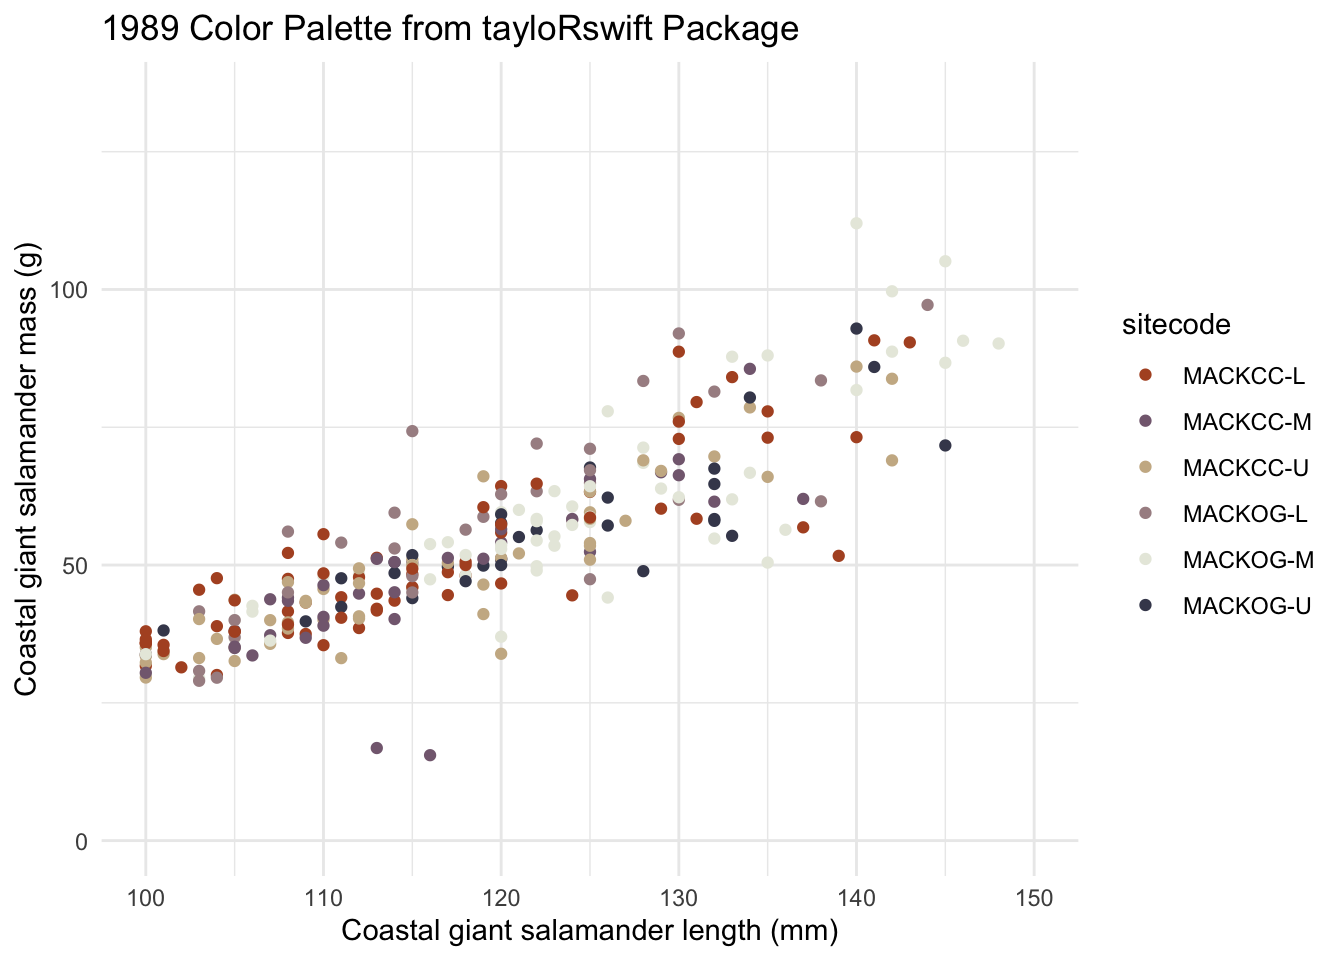
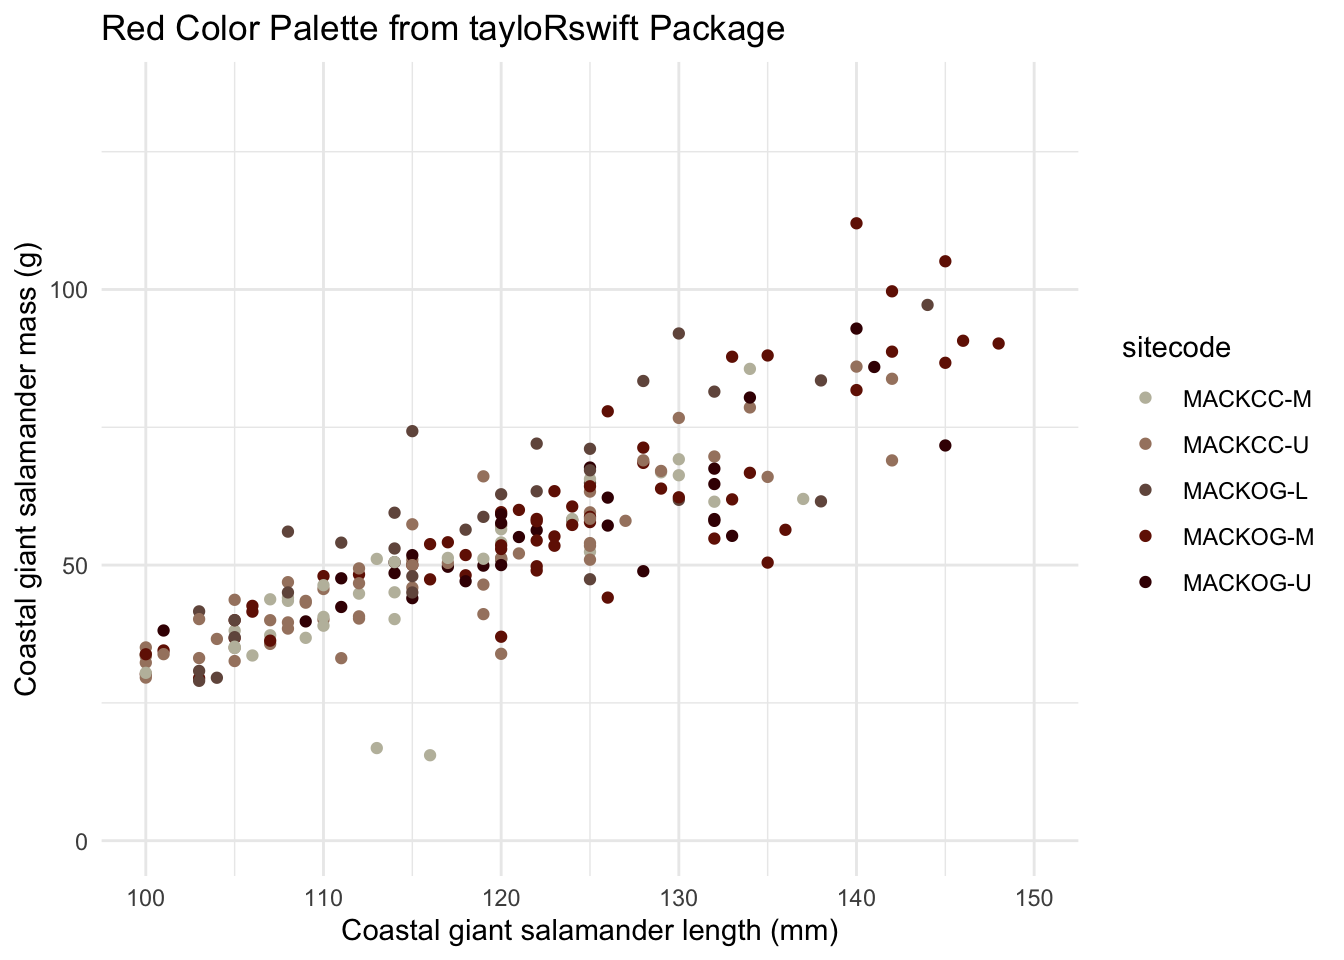
updating color blog

diff --git a/docs/blog/fun-with-coloRs/index.html b/docs/blog/fun-with-coloRs/index.html
@@ -189,6 +189,7 @@ pre > code.sourceCode > span > a:first-child::before { text-decoration: underlin
   <ul class="collapse">
   <li><a href="#taylor-swift-album-covers" id="toc-taylor-swift-album-covers" class="nav-link" data-scroll-target="#taylor-swift-album-covers">Taylor Swift Album Covers</a></li>
   <li><a href="#la-croix-colors" id="toc-la-croix-colors" class="nav-link" data-scroll-target="#la-croix-colors">La Croix Colors</a></li>
+  <li><a href="#national-parks-colors" id="toc-national-parks-colors" class="nav-link" data-scroll-target="#national-parks-colors">National Parks Colors</a></li>
   </ul></li>
   <li><a href="#resources" id="toc-resources" class="nav-link" data-scroll-target="#resources">Resources</a></li>
   </ul>
@@ -273,27 +274,28 @@ pre > code.sourceCode > span > a:first-child::before { text-decoration: underlin
 <span id="cb1-13"><a href="#cb1-13" aria-hidden="true" tabindex="-1"></a></span>
 <span id="cb1-14"><a href="#cb1-14" aria-hidden="true" tabindex="-1"></a>base_plot_scatter <span class="ot">&lt;-</span> and_vertebrates <span class="sc">%&gt;%</span></span>
 <span id="cb1-15"><a href="#cb1-15" aria-hidden="true" tabindex="-1"></a>  <span class="fu">filter</span>(species <span class="sc">==</span> <span class="st">"Coastal giant salamander"</span>) <span class="sc">%&gt;%</span> </span>
-<span id="cb1-16"><a href="#cb1-16" aria-hidden="true" tabindex="-1"></a>  <span class="fu">ggplot</span>(<span class="fu">aes</span>(<span class="at">x =</span> length_1_mm, <span class="at">y =</span> weight_g, <span class="at">color =</span> sitecode)) <span class="sc">+</span> <span class="co"># color by the variable station</span></span>
-<span id="cb1-17"><a href="#cb1-17" aria-hidden="true" tabindex="-1"></a>  <span class="fu">geom_point</span>() <span class="sc">+</span> <span class="co"># make a boxplot</span></span>
-<span id="cb1-18"><a href="#cb1-18" aria-hidden="true" tabindex="-1"></a>  <span class="fu">labs</span>(<span class="at">x =</span> <span class="st">"Coastal giant salamander length (mm)"</span>, <span class="at">y=</span> <span class="st">"Coastal giant salamander mass (g)"</span>) <span class="sc">+</span></span>
-<span id="cb1-19"><a href="#cb1-19" aria-hidden="true" tabindex="-1"></a>  <span class="fu">xlim</span>(<span class="dv">100</span>,<span class="dv">150</span>) <span class="sc">+</span></span>
-<span id="cb1-20"><a href="#cb1-20" aria-hidden="true" tabindex="-1"></a>  <span class="fu">guides</span>(<span class="at">fill =</span> <span class="cn">FALSE</span>) <span class="sc">+</span> <span class="co"># remove legend</span></span>
-<span id="cb1-21"><a href="#cb1-21" aria-hidden="true" tabindex="-1"></a>  <span class="fu">theme_minimal</span>() </span>
-<span id="cb1-22"><a href="#cb1-22" aria-hidden="true" tabindex="-1"></a></span>
-<span id="cb1-23"><a href="#cb1-23" aria-hidden="true" tabindex="-1"></a><span class="co"># base plot</span></span>
-<span id="cb1-24"><a href="#cb1-24" aria-hidden="true" tabindex="-1"></a>base_plot_twoboxes <span class="ot">&lt;-</span> and_vertebrates <span class="sc">%&gt;%</span></span>
-<span id="cb1-25"><a href="#cb1-25" aria-hidden="true" tabindex="-1"></a>  <span class="fu">filter</span>(species <span class="sc">==</span> <span class="st">"Coastal giant salamander"</span> <span class="sc">|</span> species <span class="sc">==</span> <span class="st">"Cascade torrent salamander"</span>) <span class="sc">%&gt;%</span> </span>
-<span id="cb1-26"><a href="#cb1-26" aria-hidden="true" tabindex="-1"></a>  <span class="fu">ggplot</span>(<span class="fu">aes</span>(<span class="at">x =</span> species, <span class="at">y =</span> <span class="fu">log</span>(weight_g), <span class="at">fill =</span> species)) <span class="sc">+</span> <span class="co"># fill the boxes by the variable station</span></span>
-<span id="cb1-27"><a href="#cb1-27" aria-hidden="true" tabindex="-1"></a>  <span class="fu">geom_boxplot</span>() <span class="sc">+</span> <span class="co"># make a boxplot</span></span>
-<span id="cb1-28"><a href="#cb1-28" aria-hidden="true" tabindex="-1"></a>  <span class="fu">labs</span>(<span class="at">y =</span> <span class="st">"Mass (log-g)"</span>, <span class="at">x=</span> <span class="st">"Species"</span>) <span class="sc">+</span></span>
-<span id="cb1-29"><a href="#cb1-29" aria-hidden="true" tabindex="-1"></a>  <span class="fu">guides</span>(<span class="at">fill =</span> <span class="cn">FALSE</span>) <span class="sc">+</span> <span class="co"># remove legend</span></span>
-<span id="cb1-30"><a href="#cb1-30" aria-hidden="true" tabindex="-1"></a>  <span class="fu">theme_minimal</span>() </span></code><button title="Copy to Clipboard" class="code-copy-button"><i class="bi"></i></button></pre></div>
+<span id="cb1-16"><a href="#cb1-16" aria-hidden="true" tabindex="-1"></a>  <span class="fu">filter</span>(sitecode <span class="sc">!=</span> <span class="st">"MACKCC-L"</span>) <span class="sc">%&gt;%</span> </span>
+<span id="cb1-17"><a href="#cb1-17" aria-hidden="true" tabindex="-1"></a>  <span class="fu">ggplot</span>(<span class="fu">aes</span>(<span class="at">x =</span> length_1_mm, <span class="at">y =</span> weight_g, <span class="at">color =</span> sitecode)) <span class="sc">+</span> <span class="co"># color by the variable station</span></span>
+<span id="cb1-18"><a href="#cb1-18" aria-hidden="true" tabindex="-1"></a>  <span class="fu">geom_point</span>() <span class="sc">+</span> <span class="co"># make a boxplot</span></span>
+<span id="cb1-19"><a href="#cb1-19" aria-hidden="true" tabindex="-1"></a>  <span class="fu">labs</span>(<span class="at">x =</span> <span class="st">"Coastal giant salamander length (mm)"</span>, <span class="at">y=</span> <span class="st">"Coastal giant salamander mass (g)"</span>) <span class="sc">+</span></span>
+<span id="cb1-20"><a href="#cb1-20" aria-hidden="true" tabindex="-1"></a>  <span class="fu">xlim</span>(<span class="dv">100</span>,<span class="dv">150</span>) <span class="sc">+</span></span>
+<span id="cb1-21"><a href="#cb1-21" aria-hidden="true" tabindex="-1"></a>  <span class="fu">guides</span>(<span class="at">fill =</span> <span class="cn">FALSE</span>) <span class="sc">+</span> <span class="co"># remove legend</span></span>
+<span id="cb1-22"><a href="#cb1-22" aria-hidden="true" tabindex="-1"></a>  <span class="fu">theme_minimal</span>() </span>
+<span id="cb1-23"><a href="#cb1-23" aria-hidden="true" tabindex="-1"></a></span>
+<span id="cb1-24"><a href="#cb1-24" aria-hidden="true" tabindex="-1"></a><span class="co"># base plot</span></span>
+<span id="cb1-25"><a href="#cb1-25" aria-hidden="true" tabindex="-1"></a>base_plot_twoboxes <span class="ot">&lt;-</span> and_vertebrates <span class="sc">%&gt;%</span></span>
+<span id="cb1-26"><a href="#cb1-26" aria-hidden="true" tabindex="-1"></a>  <span class="fu">filter</span>(species <span class="sc">==</span> <span class="st">"Coastal giant salamander"</span> <span class="sc">|</span> species <span class="sc">==</span> <span class="st">"Cascade torrent salamander"</span>) <span class="sc">%&gt;%</span> </span>
+<span id="cb1-27"><a href="#cb1-27" aria-hidden="true" tabindex="-1"></a>  <span class="fu">ggplot</span>(<span class="fu">aes</span>(<span class="at">x =</span> species, <span class="at">y =</span> <span class="fu">log</span>(weight_g), <span class="at">fill =</span> species)) <span class="sc">+</span> <span class="co"># fill the boxes by the variable station</span></span>
+<span id="cb1-28"><a href="#cb1-28" aria-hidden="true" tabindex="-1"></a>  <span class="fu">geom_boxplot</span>() <span class="sc">+</span> <span class="co"># make a boxplot</span></span>
+<span id="cb1-29"><a href="#cb1-29" aria-hidden="true" tabindex="-1"></a>  <span class="fu">labs</span>(<span class="at">y =</span> <span class="st">"Mass (log-g)"</span>, <span class="at">x=</span> <span class="st">"Species"</span>) <span class="sc">+</span></span>
+<span id="cb1-30"><a href="#cb1-30" aria-hidden="true" tabindex="-1"></a>  <span class="fu">guides</span>(<span class="at">fill =</span> <span class="cn">FALSE</span>) <span class="sc">+</span> <span class="co"># remove legend</span></span>
+<span id="cb1-31"><a href="#cb1-31" aria-hidden="true" tabindex="-1"></a>  <span class="fu">theme_minimal</span>() </span></code><button title="Copy to Clipboard" class="code-copy-button"><i class="bi"></i></button></pre></div>
 </details>
 </div>
 <section id="taylor-swift-album-covers" class="level2">
 <h2 class="anchored" data-anchor-id="taylor-swift-album-covers">Taylor Swift Album Covers</h2>
 <p>First, let’s use the direct color palette package, you can learn more at the package’s github: <i class="fa-brands fa-github" aria-label="github"></i> <a href="https://github.com/asteves/tayloRswift">asteves tayloRswift github repository</a></p>
-<p>Important note: there are 2 functions: one for <strong>fill</strong>: <code>scale_fill_taylor</code> and one for <strong>color</strong>: <code>scale_color_taylor</code></p>
+<p>Important note: there are 2 functions: one for <strong>fill</strong>: <code>scale_fill_taylor</code> and one for <strong>color</strong>: <code>scale_color_taylor</code>.</p>
 <div class="cell">
 <details>
 <summary>Code</summary>
@@ -314,8 +316,8 @@ pre > code.sourceCode > span > a:first-child::before { text-decoration: underlin
 <details>
 <summary>Code</summary>
 <div class="sourceCode cell-code" id="cb3"><pre class="sourceCode r code-with-copy"><code class="sourceCode r"><span id="cb3-1"><a href="#cb3-1" aria-hidden="true" tabindex="-1"></a>base_plot_scatter <span class="sc">+</span></span>
-<span id="cb3-2"><a href="#cb3-2" aria-hidden="true" tabindex="-1"></a>  <span class="fu">scale_color_manual</span>(<span class="at">values =</span> <span class="fu">paletteer_d</span>(<span class="st">"tayloRswift::taylor1989"</span>)) <span class="sc">+</span></span>
-<span id="cb3-3"><a href="#cb3-3" aria-hidden="true" tabindex="-1"></a>  <span class="fu">ggtitle</span>(<span class="st">"1989 Color Palette from tayloRswift Package"</span>)</span></code><button title="Copy to Clipboard" class="code-copy-button"><i class="bi"></i></button></pre></div>
+<span id="cb3-2"><a href="#cb3-2" aria-hidden="true" tabindex="-1"></a>  <span class="fu">scale_color_manual</span>(<span class="at">values =</span> <span class="fu">paletteer_d</span>(<span class="st">"tayloRswift::taylorRed"</span>)) <span class="sc">+</span></span>
+<span id="cb3-3"><a href="#cb3-3" aria-hidden="true" tabindex="-1"></a>  <span class="fu">ggtitle</span>(<span class="st">"Red Color Palette from tayloRswift Package"</span>)</span></code><button title="Copy to Clipboard" class="code-copy-button"><i class="bi"></i></button></pre></div>
 </details>
 <div class="cell-output-display">
 <p><img src="index_files/figure-html/unnamed-chunk-3-1.png" class="img-fluid" width="672"></p>
@@ -395,6 +397,56 @@ pre > code.sourceCode > span > a:first-child::before { text-decoration: underlin
 </details>
 <div class="cell-output-display">
 <p><img src="index_files/figure-html/unnamed-chunk-5-2.png" class="img-fluid" width="672"></p>
+</div>
+</div>
+</section>
+<section id="national-parks-colors" class="level2">
+<h2 class="anchored" data-anchor-id="national-parks-colors">National Parks Colors</h2>
+<p>These color palettes come from National Parks posters. You can learn more at the package’s github: <i class="fa-brands fa-github" aria-label="github"></i> <a href="https://github.com/katiejolly/nationalparkcolors">katiejolly’s Nationalparkcolors github repository</a></p>
+<p>National Park posters and images</p>
+<div class="cell">
+<details>
+<summary>Code</summary>
+<div class="sourceCode cell-code" id="cb13"><pre class="sourceCode r code-with-copy"><code class="sourceCode r"><span id="cb13-1"><a href="#cb13-1" aria-hidden="true" tabindex="-1"></a><span class="co"># Let's start with the original package</span></span>
+<span id="cb13-2"><a href="#cb13-2" aria-hidden="true" tabindex="-1"></a><span class="co">#devtools::install_github("katiejolly/nationalparkcolors") #uncomment to install</span></span>
+<span id="cb13-3"><a href="#cb13-3" aria-hidden="true" tabindex="-1"></a><span class="fu">library</span>(nationalparkcolors)</span>
+<span id="cb13-4"><a href="#cb13-4" aria-hidden="true" tabindex="-1"></a></span>
+<span id="cb13-5"><a href="#cb13-5" aria-hidden="true" tabindex="-1"></a><span class="co"># see the palette</span></span>
+<span id="cb13-6"><a href="#cb13-6" aria-hidden="true" tabindex="-1"></a><span class="co"># park_palette("Saguaro")</span></span>
+<span id="cb13-7"><a href="#cb13-7" aria-hidden="true" tabindex="-1"></a></span>
+<span id="cb13-8"><a href="#cb13-8" aria-hidden="true" tabindex="-1"></a><span class="co"># build the palette</span></span>
+<span id="cb13-9"><a href="#cb13-9" aria-hidden="true" tabindex="-1"></a>pal <span class="ot">&lt;-</span> <span class="fu">park_palette</span>(<span class="st">"Saguaro"</span>)</span>
+<span id="cb13-10"><a href="#cb13-10" aria-hidden="true" tabindex="-1"></a></span>
+<span id="cb13-11"><a href="#cb13-11" aria-hidden="true" tabindex="-1"></a>base_plot <span class="sc">+</span></span>
+<span id="cb13-12"><a href="#cb13-12" aria-hidden="true" tabindex="-1"></a>  <span class="fu">scale_fill_manual</span>(<span class="at">values =</span> pal) <span class="sc">+</span></span>
+<span id="cb13-13"><a href="#cb13-13" aria-hidden="true" tabindex="-1"></a>  <span class="fu">ggtitle</span>(<span class="st">"National Parks Saguaro Palette from nationalparks Package"</span>)</span></code><button title="Copy to Clipboard" class="code-copy-button"><i class="bi"></i></button></pre></div>
+</details>
+<div class="cell-output-display">
+<p><img src="index_files/figure-html/unnamed-chunk-6-1.png" class="img-fluid" width="672"></p>
+</div>
+<details>
+<summary>Code</summary>
+<div class="sourceCode cell-code" id="cb14"><pre class="sourceCode r code-with-copy"><code class="sourceCode r"><span id="cb14-1"><a href="#cb14-1" aria-hidden="true" tabindex="-1"></a><span class="co"># Now let's do Everglades with paleteer with a scatterplot</span></span>
+<span id="cb14-2"><a href="#cb14-2" aria-hidden="true" tabindex="-1"></a></span>
+<span id="cb14-3"><a href="#cb14-3" aria-hidden="true" tabindex="-1"></a><span class="co"># see the hex codes</span></span>
+<span id="cb14-4"><a href="#cb14-4" aria-hidden="true" tabindex="-1"></a>paletteer<span class="sc">::</span><span class="fu">paletteer_d</span>(<span class="st">"nationalparkcolors::Everglades"</span>) </span></code><button title="Copy to Clipboard" class="code-copy-button"><i class="bi"></i></button></pre></div>
+</details>
+<div class="cell-output cell-output-stdout">
+<pre><code>&lt;colors&gt;
+#91D5DEFF #2E8289FF #B4674EFF #EAAE37FF #565F41FF </code></pre>
+</div>
+<details>
+<summary>Code</summary>
+<div class="sourceCode cell-code" id="cb16"><pre class="sourceCode r code-with-copy"><code class="sourceCode r"><span id="cb16-1"><a href="#cb16-1" aria-hidden="true" tabindex="-1"></a>base_plot_scatter <span class="sc">+</span></span>
+<span id="cb16-2"><a href="#cb16-2" aria-hidden="true" tabindex="-1"></a>  paletteer<span class="sc">::</span><span class="fu">scale_color_paletteer_d</span>(<span class="st">"nationalparkcolors::Everglades"</span>) <span class="sc">+</span> <span class="co"># </span><span class="al">NOTE</span><span class="co">: color for the points</span></span>
+<span id="cb16-3"><a href="#cb16-3" aria-hidden="true" tabindex="-1"></a>  <span class="fu">ggtitle</span>(<span class="st">"Everglades Palette from nationalparkcolors Package"</span>) <span class="sc">+</span></span>
+<span id="cb16-4"><a href="#cb16-4" aria-hidden="true" tabindex="-1"></a></span>
+<span id="cb16-5"><a href="#cb16-5" aria-hidden="true" tabindex="-1"></a>  <span class="co"># for fun, let's make the axes text the colors too</span></span>
+<span id="cb16-6"><a href="#cb16-6" aria-hidden="true" tabindex="-1"></a>  <span class="fu">theme</span>(<span class="at">axis.title =</span> <span class="fu">element_text</span>(<span class="at">color =</span> <span class="st">"#B4674EFF"</span>),</span>
+<span id="cb16-7"><a href="#cb16-7" aria-hidden="true" tabindex="-1"></a>        <span class="at">axis.text =</span> <span class="fu">element_text</span>(<span class="at">color =</span> <span class="st">"#2E8289FF"</span>))</span></code><button title="Copy to Clipboard" class="code-copy-button"><i class="bi"></i></button></pre></div>
+</details>
+<div class="cell-output-display">
+<p><img src="index_files/figure-html/unnamed-chunk-6-2.png" class="img-fluid" width="672"></p>
 </div>
 </div>
 </section>

diff --git a/docs/Blog.html b/docs/Blog.html
@@ -219,7 +219,7 @@ By Caitlin Nordheim-Maestas
 <a href="./blog/eds-220-final-blog/thomas-fire-analyses-nordheim-maestas.html"> </a>
 </div>
 </div>
-<div class="quarto-post image-right" data-index="1" data-categories="data-visualization" data-listing-date-sort="1684134000000" data-listing-file-modified-sort="1716065307295" data-listing-date-modified-sort="NaN" data-listing-reading-time-sort="5">
+<div class="quarto-post image-right" data-index="1" data-categories="data-visualization" data-listing-date-sort="1684134000000" data-listing-file-modified-sort="1716180710322" data-listing-date-modified-sort="NaN" data-listing-reading-time-sort="6">
 <div class="thumbnail">
 <p><a href="./blog/fun-with-coloRs/index.html"> <img src="./blog/fun-with-coloRs/IMG_8797.jpeg" class="thumbnail-image"> </a></p>
 </div>
